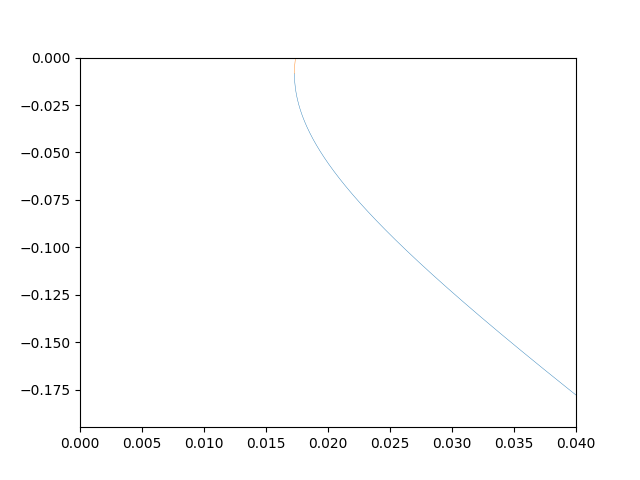
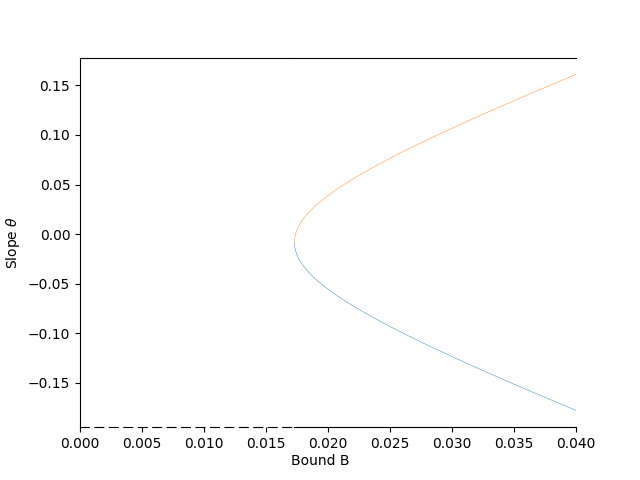
#4 Dashed graphs, positive theta values, and testing implememtation
X-axis is now dashed on the values that B never takes - the slope theta has been changed to take on positive values. Testing has also been implemented - everything is within precision 10^-6

diff --git a/PyBounds/pyBounds.py b/PyBounds/pyBounds.py
@@ -2,7 +2,6 @@
 # from .log import init_logger
 
 # logger = init_logger('main.log')
-# NEEDS TESTING!!!!!
 
 import numpy as np
 import scipy as scipy
@@ -24,15 +23,8 @@ class Bounds:
         else:
             self.maxB = maxB
 
-    # implementation of k-mean
-
     @staticmethod
     def kmean(k, vector):
-        """implementation of the k-mean function
-            :param k: the "k" in k-mean
-            :param vector: list of elements of which to take the k-mean of
-            :return: outputs the k-mean of all the elements in the list
-            """
         value = 0
         length = len(vector)
         if k == np.inf:
@@ -42,30 +34,16 @@ class Bounds:
                 value = value + i ** k
             return ((1 / length) * value) ** (1 / k)
 
-    # calculate Delta_epsilon
     def delta_epsilon(self, theta):
-        """
-            implementation of the Delta_epsilon function as described in Section 2
-            :param theta: given slope
-            :return: Delta q_t - theta Delta p_t
-            """
         return np.subtract(np.diff(self.q), theta * np.diff(self.p))
 
     def M_hat_k(self, theta):
-        """
-        implementation of tilde{M_k}
-        used in underline_B
-        :return: the k-mean of delta-epsilon
-        """
         return self.kmean(self.k, np.abs(self.delta_epsilon(theta)))
 
     def B_tilde(self):
-        """
-        calculates B_tilde used in underline{B} for the case k = infty; introduced in Proposition 1
-        :return: B_tilde operation in the case of k=infty as defined in Proposition 1
-        """
         def f(B):
             return self.overline_theta(B) - self.underline_theta(B)
+
         return scipy.optimize.root_scalar(f, x0=0, x1=0.001).root
 
     def underline_theta(self, B):
@@ -102,11 +80,6 @@ class Bounds:
             return sol.root
 
     def underline_B(self):
-        """
-        case k = infinity uses B_tilde as defined above
-        case k in (1, infinity): implement the definitions of underline{B} as stated in Proposition 1 and Proposition 2
-        :return: returns the underline_{B_k} operation as defined in Propositions 1 and 2
-        """
         if self.k == np.inf:
             delta_q = []
             for i in range(1, len(self.p)):
@@ -117,34 +90,20 @@ class Bounds:
             else:
                 return max(max(delta_q), self.B_tilde())
         else:
-            # print(minimize(self.M_tilde_k, 0))
             return minimize(self.M_hat_k, np.array([0])).fun
 
     def Theta_hat_k_B(self, B):
-        """
-        :param B: upper bound B provided
-        :return: output [underline{theta}_k, overline{theta}_k] for a given value
-            """
-        # print(self.underline_theta(B))
         return [self.underline_theta(B), self.overline_theta(B)]
 
     def intervals(self):
-        """
-        :return: for each i in the range [underline_B, maxB], output [underline{theta}_k, overline{theta}_k]
-        """
         array_of_intervals = []
         i = self.underline_B()
         while i <= self.maxB:
             array_of_intervals.append(self.Theta_hat_k_B(i))
             i += (self.maxB - self.underline_B()) / self.ngridpoints
-        # print(len(array_of_intervals))
         return array_of_intervals
 
     def plot(self):
-        """
-        :return: outputs a plot of B vs. theta similar to Figure 3
-        """
-        intervals = self.intervals()
         lower_bounds = []
         upper_bounds = []
         x = []
@@ -153,11 +112,26 @@ class Bounds:
             x.append(i)
             lower_bounds.append(self.underline_theta(i))
             upper_bounds.append(self.overline_theta(i))
-            i = i + (self.maxB-self.underline_B())/self.ngridpoints
-        plt.plot(x, lower_bounds, linewidth=.3)
-        plt.xlim([0, self.maxB])
-        plt.plot(x, upper_bounds, linewidth=.3)
-        plt.ylim(top=0)
-        #plt.axhline(y=0, color='r', linestyle='-')
+            i = i + (self.maxB - self.underline_B()) / self.ngridpoints
+        fig, (ax, ax2) = plt.subplots(1, 2, sharey=True, gridspec_kw={
+            "width_ratios": [self.underline_B(), self.maxB - self.underline_B()]})
+        ax.plot(x, lower_bounds, linewidth=.3)
+        ax2.plot(x, lower_bounds, linewidth=.3)
+        ax.plot(x, upper_bounds, linewidth=.3)
+        ax2.plot(x, upper_bounds, linewidth=.3)
+
+        ax.set_xlim(0, self.underline_B(), auto=True)
+        ax2.set_xlim(self.underline_B(), self.maxB, auto=True)
+
+        ax.spines['bottom'].set_linestyle((0, (8, 5)))
+        ax.spines['right'].set_visible(False)
+        ax2.spines['left'].set_visible(False)
+        ax2.spines['right'].set_visible(False)
+        ax.yaxis.tick_left()
+        ax2.yaxis.set_ticks_position('none')
+        plt.subplots_adjust(wspace=0)
+
+        fig.text(0.5, 0.04, 'Bound B', ha='center', va='center')
+        ax.set_ylabel('Slope $\\theta$')
         plt.savefig('Bounds Interval Plot k=' + str(self.k) + ".png")
         plt.show()

diff --git a/PyBounds/tests/test_main.py b/PyBounds/tests/test_main.py
@@ -1,20 +1,27 @@
 from unittest import main, TestCase
-#from .. import add
+import numpy as np
+import pandas as pd
+import requests
+import io
 
+from .. import pyBounds
+
+url = "https://raw.githubusercontent.com/JMSLab/PyBounds/master/PyBounds/roberts_schlenker_2013.csv?token=GHSAT0AAAAAABSA4OUBEMYZWDWOTESJ3ISGYRI737Q"
+download = requests.get(url).content
+
+data = pd.read_csv(io.StringIO(download.decode('utf-8')))
+df = pd.DataFrame(data)
+p_t = df.iloc[:, 4]
+q_t = df.iloc[:, 3]
 
 class Test(TestCase):
     def test_add(self):
-        # Positive & Negative number
-        # self.assertAlmostEqual(add(10, 100), 110)
-        # self.assertAlmostEqual(add(-20, 99), 79)
-        # self.assertAlmostEqual(add(-10, -100), -110)
-
-        # Relative number
-        # self.assertAlmostEqual(add(0.1, -0.5), -0.4)
-        # self.assertAlmostEqual(add(-0.1, 100), 99.9)
-
-        # Not equal
-        # self.assertNotAlmostEqual(add(1, 1), 3)
+        kinf = pyBounds.Bounds(p_t, q_t, k=np.inf, maxB=0.1)
+        self.assertAlmostEqual(kinf.Theta_hat_k_B(0.07)[0], -0.122187908332218, delta = 0.000001)
+        self.assertAlmostEqual(kinf.Theta_hat_k_B(0.07)[1], 0.134092308480860, delta = 0.000001)
+        k2 = pyBounds.Bounds(p_t, q_t, k=2, maxB=0.04)
+        self.assertAlmostEqual(k2.Theta_hat_k_B(0.03)[0], -0.123518421564038, delta = 0.000001)
+        self.assertAlmostEqual(k2.Theta_hat_k_B(0.03)[1], 0.106798443278028, delta = 0.000001)
         return
 
 

diff --git a/PyBounds/examples.py b/PyBounds/examples.py
@@ -5,7 +5,7 @@ import io
 import pyBounds
 
 # import data: p_t, q_t
-url = "https://raw.githubusercontent.com/JMSLab/PyBounds/master/PyBounds/roberts_schlenker_2013.csv?token=GHSAT0AAAAAABRP7ARWJWFITYQIO3DE42NMYQ5WEWQ"
+url = "https://raw.githubusercontent.com/JMSLab/PyBounds/master/PyBounds/roberts_schlenker_2013.csv?token=GHSAT0AAAAAABSA4OUBEMYZWDWOTESJ3ISGYRI737Q"
 download = requests.get(url).content
 
 data = pd.read_csv(io.StringIO(download.decode('utf-8')))
@@ -14,8 +14,6 @@ p_t = df.iloc[:, 4]
 q_t = df.iloc[:, 3]
 
 if __name__ == '__main__':
-    #print(p_t)
-    #print(q_t)
     kinf = pyBounds.Bounds(p_t, q_t, k=np.inf, maxB=0.1)
     kinf.plot()
     k2 = pyBounds.Bounds(p_t, q_t, k=2, maxB=0.04)
